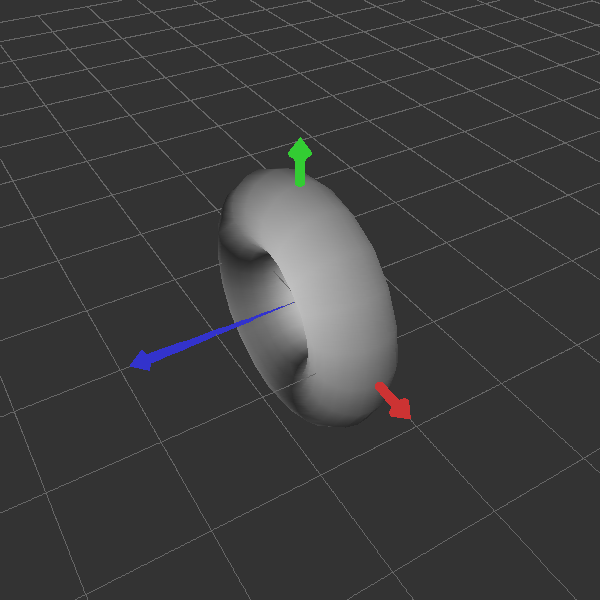
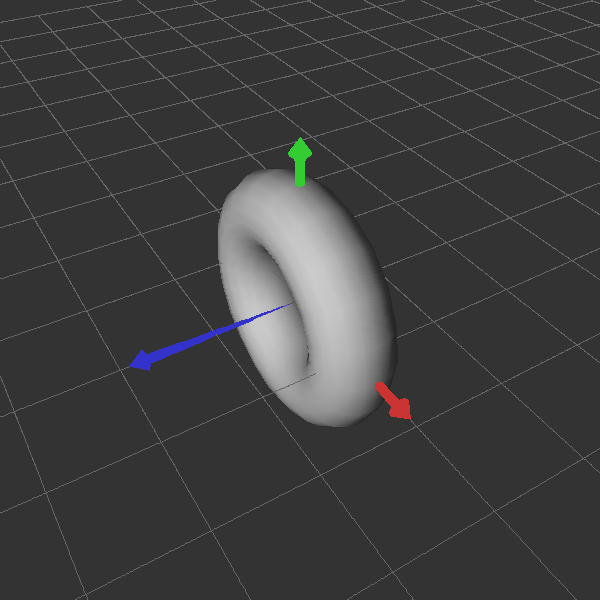
done

Changed region(s): [[0.36, 0.27, 0.66, 0.72]]

diff --git a/model/src/modeler/shape/Torus.java b/model/src/modeler/shape/Torus.java
@@ -149,26 +149,59 @@ public class Torus extends Shape {
         }
 
 		//test output
-		for (int i = 0; i < vertices2D.length; i++) {
-			for (int j = 0; j < vertices2D[i].length; j++) {
-				System.out.print("(" + vertices2D[i][j].x + ", " + vertices2D[i][j].y + ", " + vertices2D[i][j].z + ") ");
-			}
-			System.out.println("line end");
-			System.out.println();
-		}
+		// for (int i = 0; i < vertices2D.length; i++) {
+		// 	for (int j = 0; j < vertices2D[i].length; j++) {
+		// 		System.out.print("(" + vertices2D[i][j].x + ", " + vertices2D[i][j].y + ", " + vertices2D[i][j].z + ") ");
+		// 	}
+		// 	System.out.println("line end");
+		// 	System.out.println();
+		// }
 
 		return vertices;
 	}
 
 	Vector3f[] generateNormals(int numFacets, Point3f[] vertices)
 	{
-		Vector3f[] normals = new Vector3f[vertices.length];
+		int latitude = numFacets+1;			// top/bottom
+		int longitude = numFacets;			// left/right
+		Vector3f[][] normals2D = new Vector3f[latitude][longitude];
 
-        for (int i = 0; i < vertices.length; i++) {
-            normals[i] = new Vector3f(vertices[i]);
+		float R = 1.0f;
+		float r = R /aspectRatio;
+
+		double latAngleIncrement = 360.0f / (latitude-1);
+    	double lonAngleIncrement = 360.0f / longitude;
+				
+		for (int i = 0; i < latitude; i++) 
+		{
+			double lat = latAngleIncrement * i;
+
+            for (int j = 0; j < longitude; j++) 
+			{
+				double lon = lonAngleIncrement * j;
+
+				float x = (R + r * cos(Math.toRadians(lon))) * cos(Math.toRadians(lat));
+				float y = (R + r * cos(Math.toRadians(lon))) * sin(Math.toRadians(lat));
+				float z = r * sin(Math.toRadians(lon));
+				
+				//calc the x and y coordinate of the vector
+				//from the center of the circle to the point on the surface
+				normals2D[i][j] = new Vector3f(x - R * cos(Math.toRadians(lat)), 
+											   y - R * sin(Math.toRadians(lat)),
+											   z);
+			}
         }
 
-        return normals;
+		// flatten 2d array to 1d
+		int index = 0;
+        Vector3f[] normals = new Vector3f[latitude * longitude];
+        for (int i = 0; i < latitude; i++) {
+            for (int j = 0; j < longitude; j++) {
+                normals[index++] = normals2D[i][j];
+            }
+        }
+
+		return normals;
 	}
 
 	Point3i[] generateTriangles(int numFacets)
@@ -187,7 +220,7 @@ public class Torus extends Shape {
 				triangleList.add(new Point3i(currentVertex, nextRowVertex, nextColumnVertex));
 				triangleList.add(new Point3i(nextRowVertex, nextRowColumnVertex, nextColumnVertex));
 			}
-		}
+		}		
 
 		//convert to array
 		Point3i[] triangles = triangleList.toArray(new Point3i[triangleList.size()]);		

diff --git a/model/src/modeler/shape/Sphere.java b/model/src/modeler/shape/Sphere.java
@@ -158,6 +158,7 @@ public class Sphere extends Shape {
 
         for (int i = 0; i < vertices.length; i++) {
             normals[i] = new Vector3f(vertices[i]);
+			normals[i].normalize();
         }
 
         return normals;
